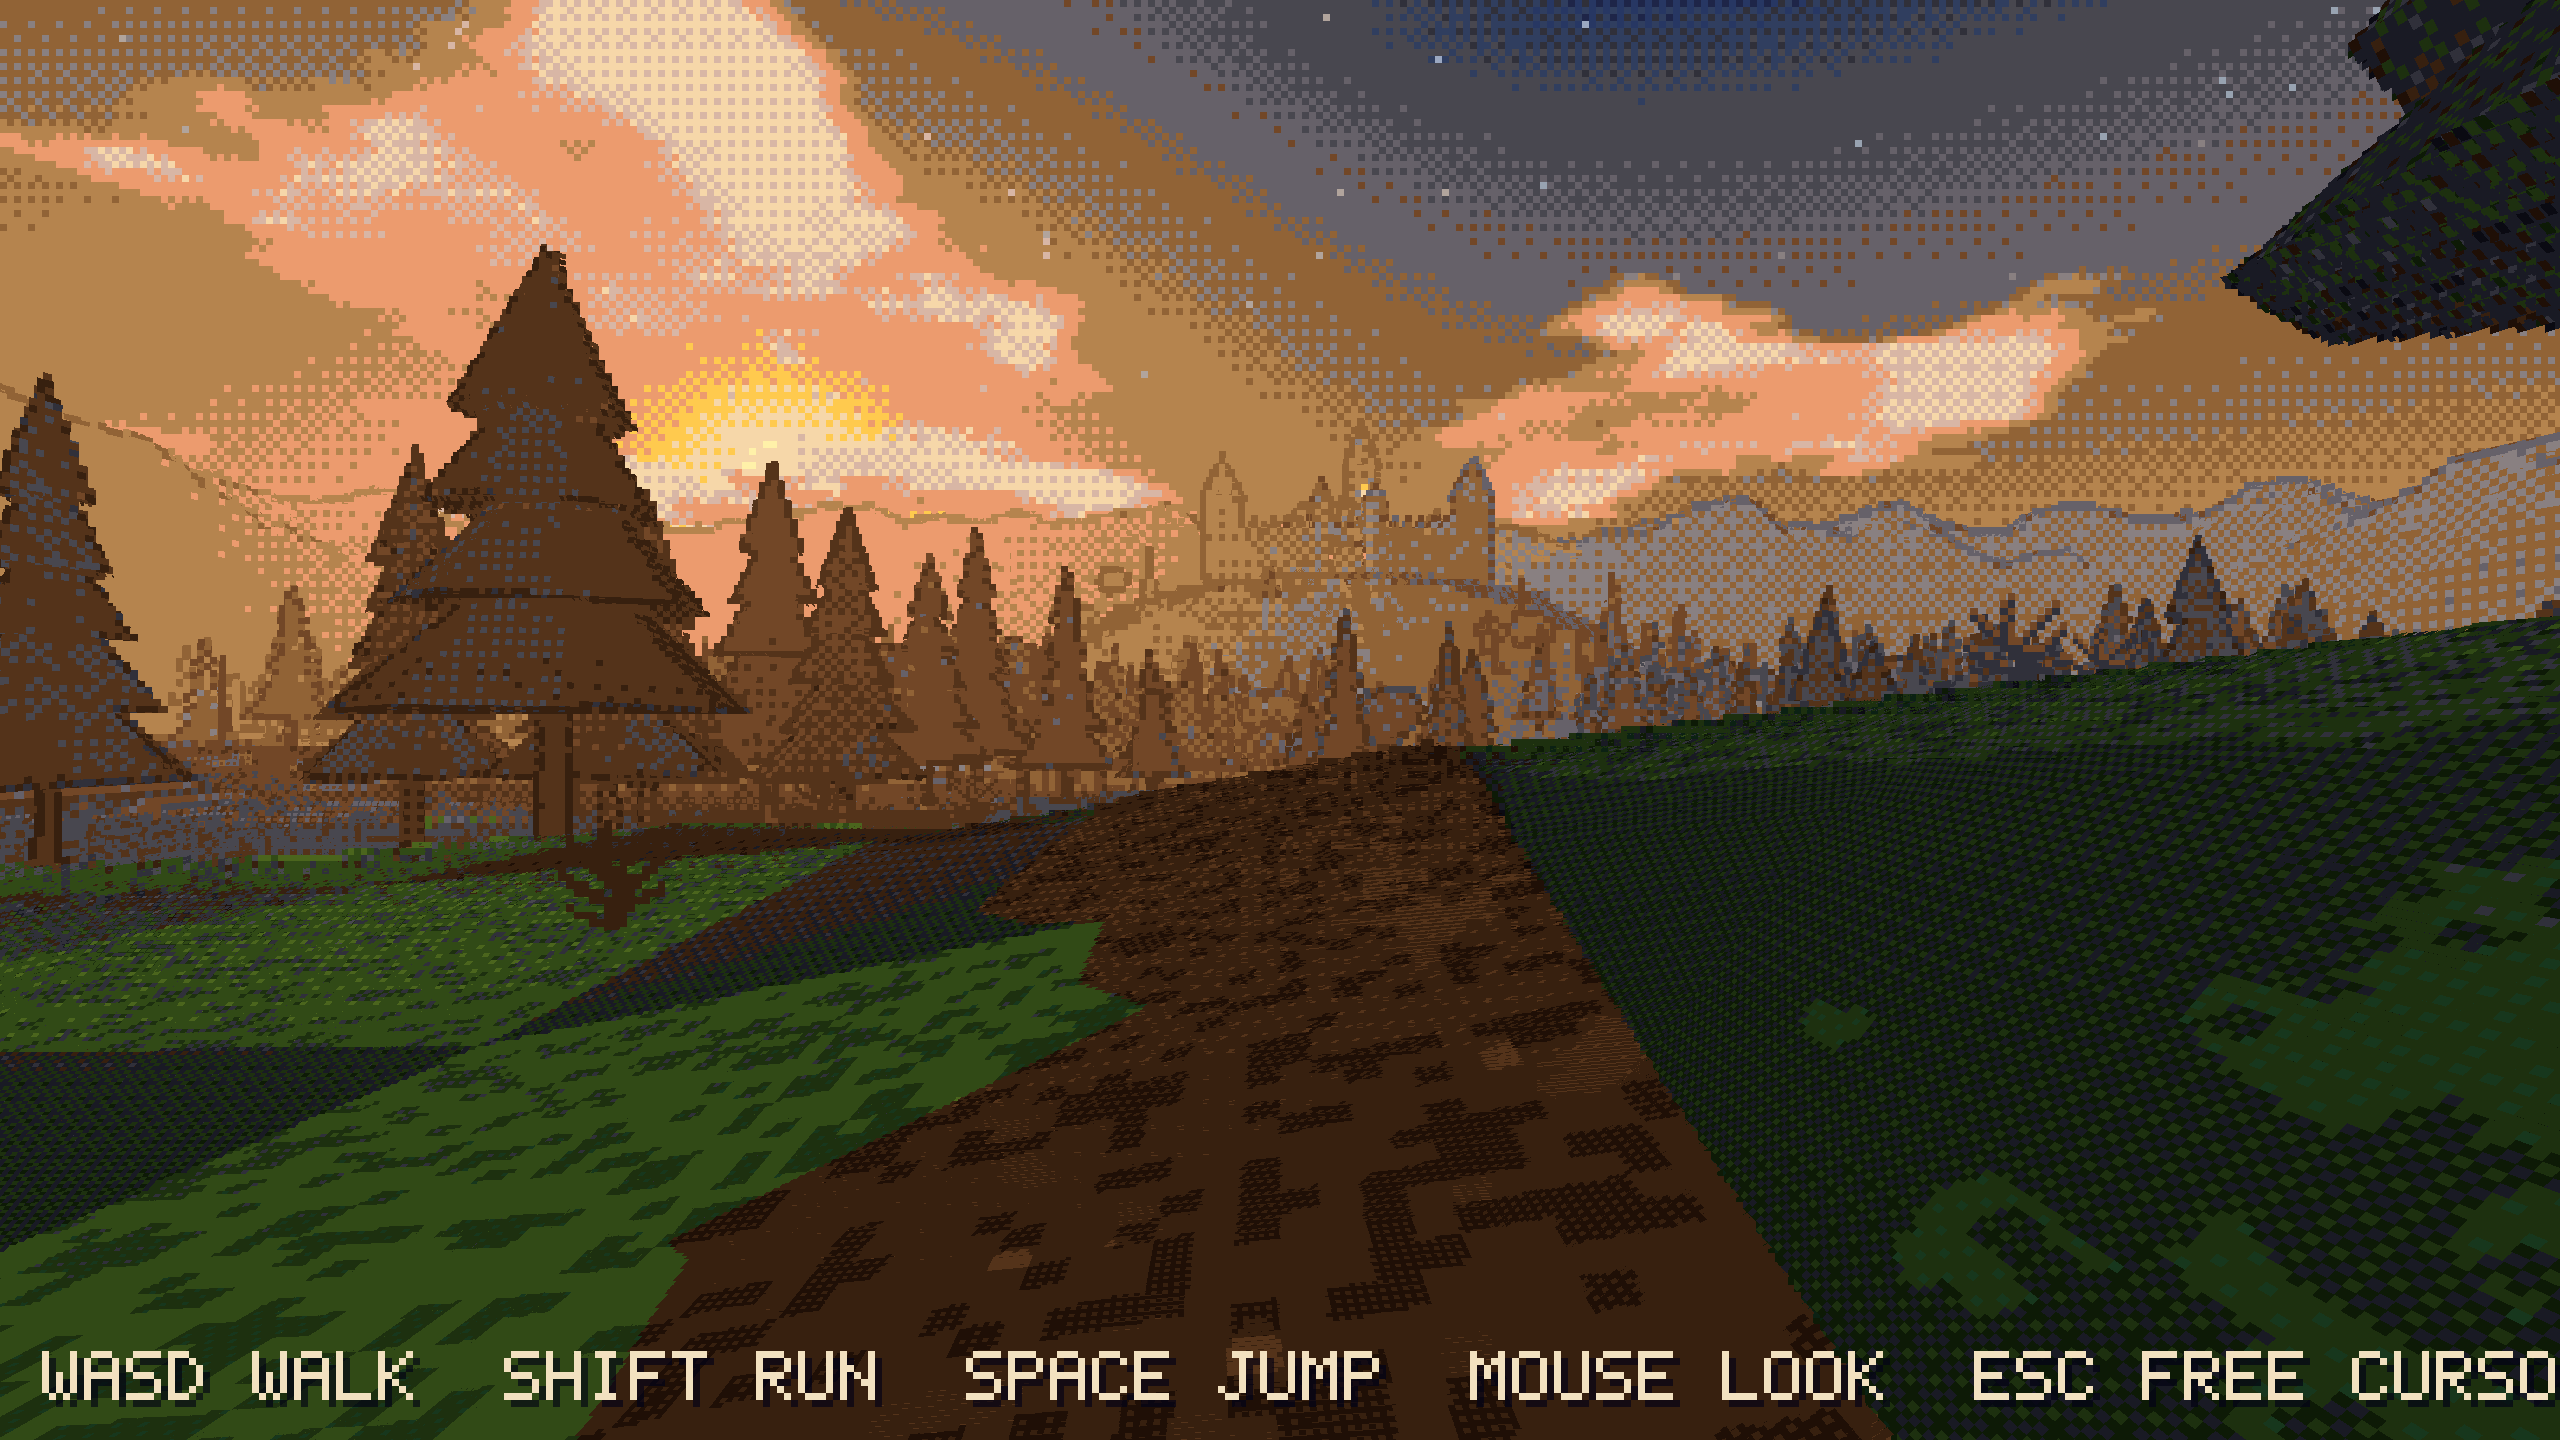
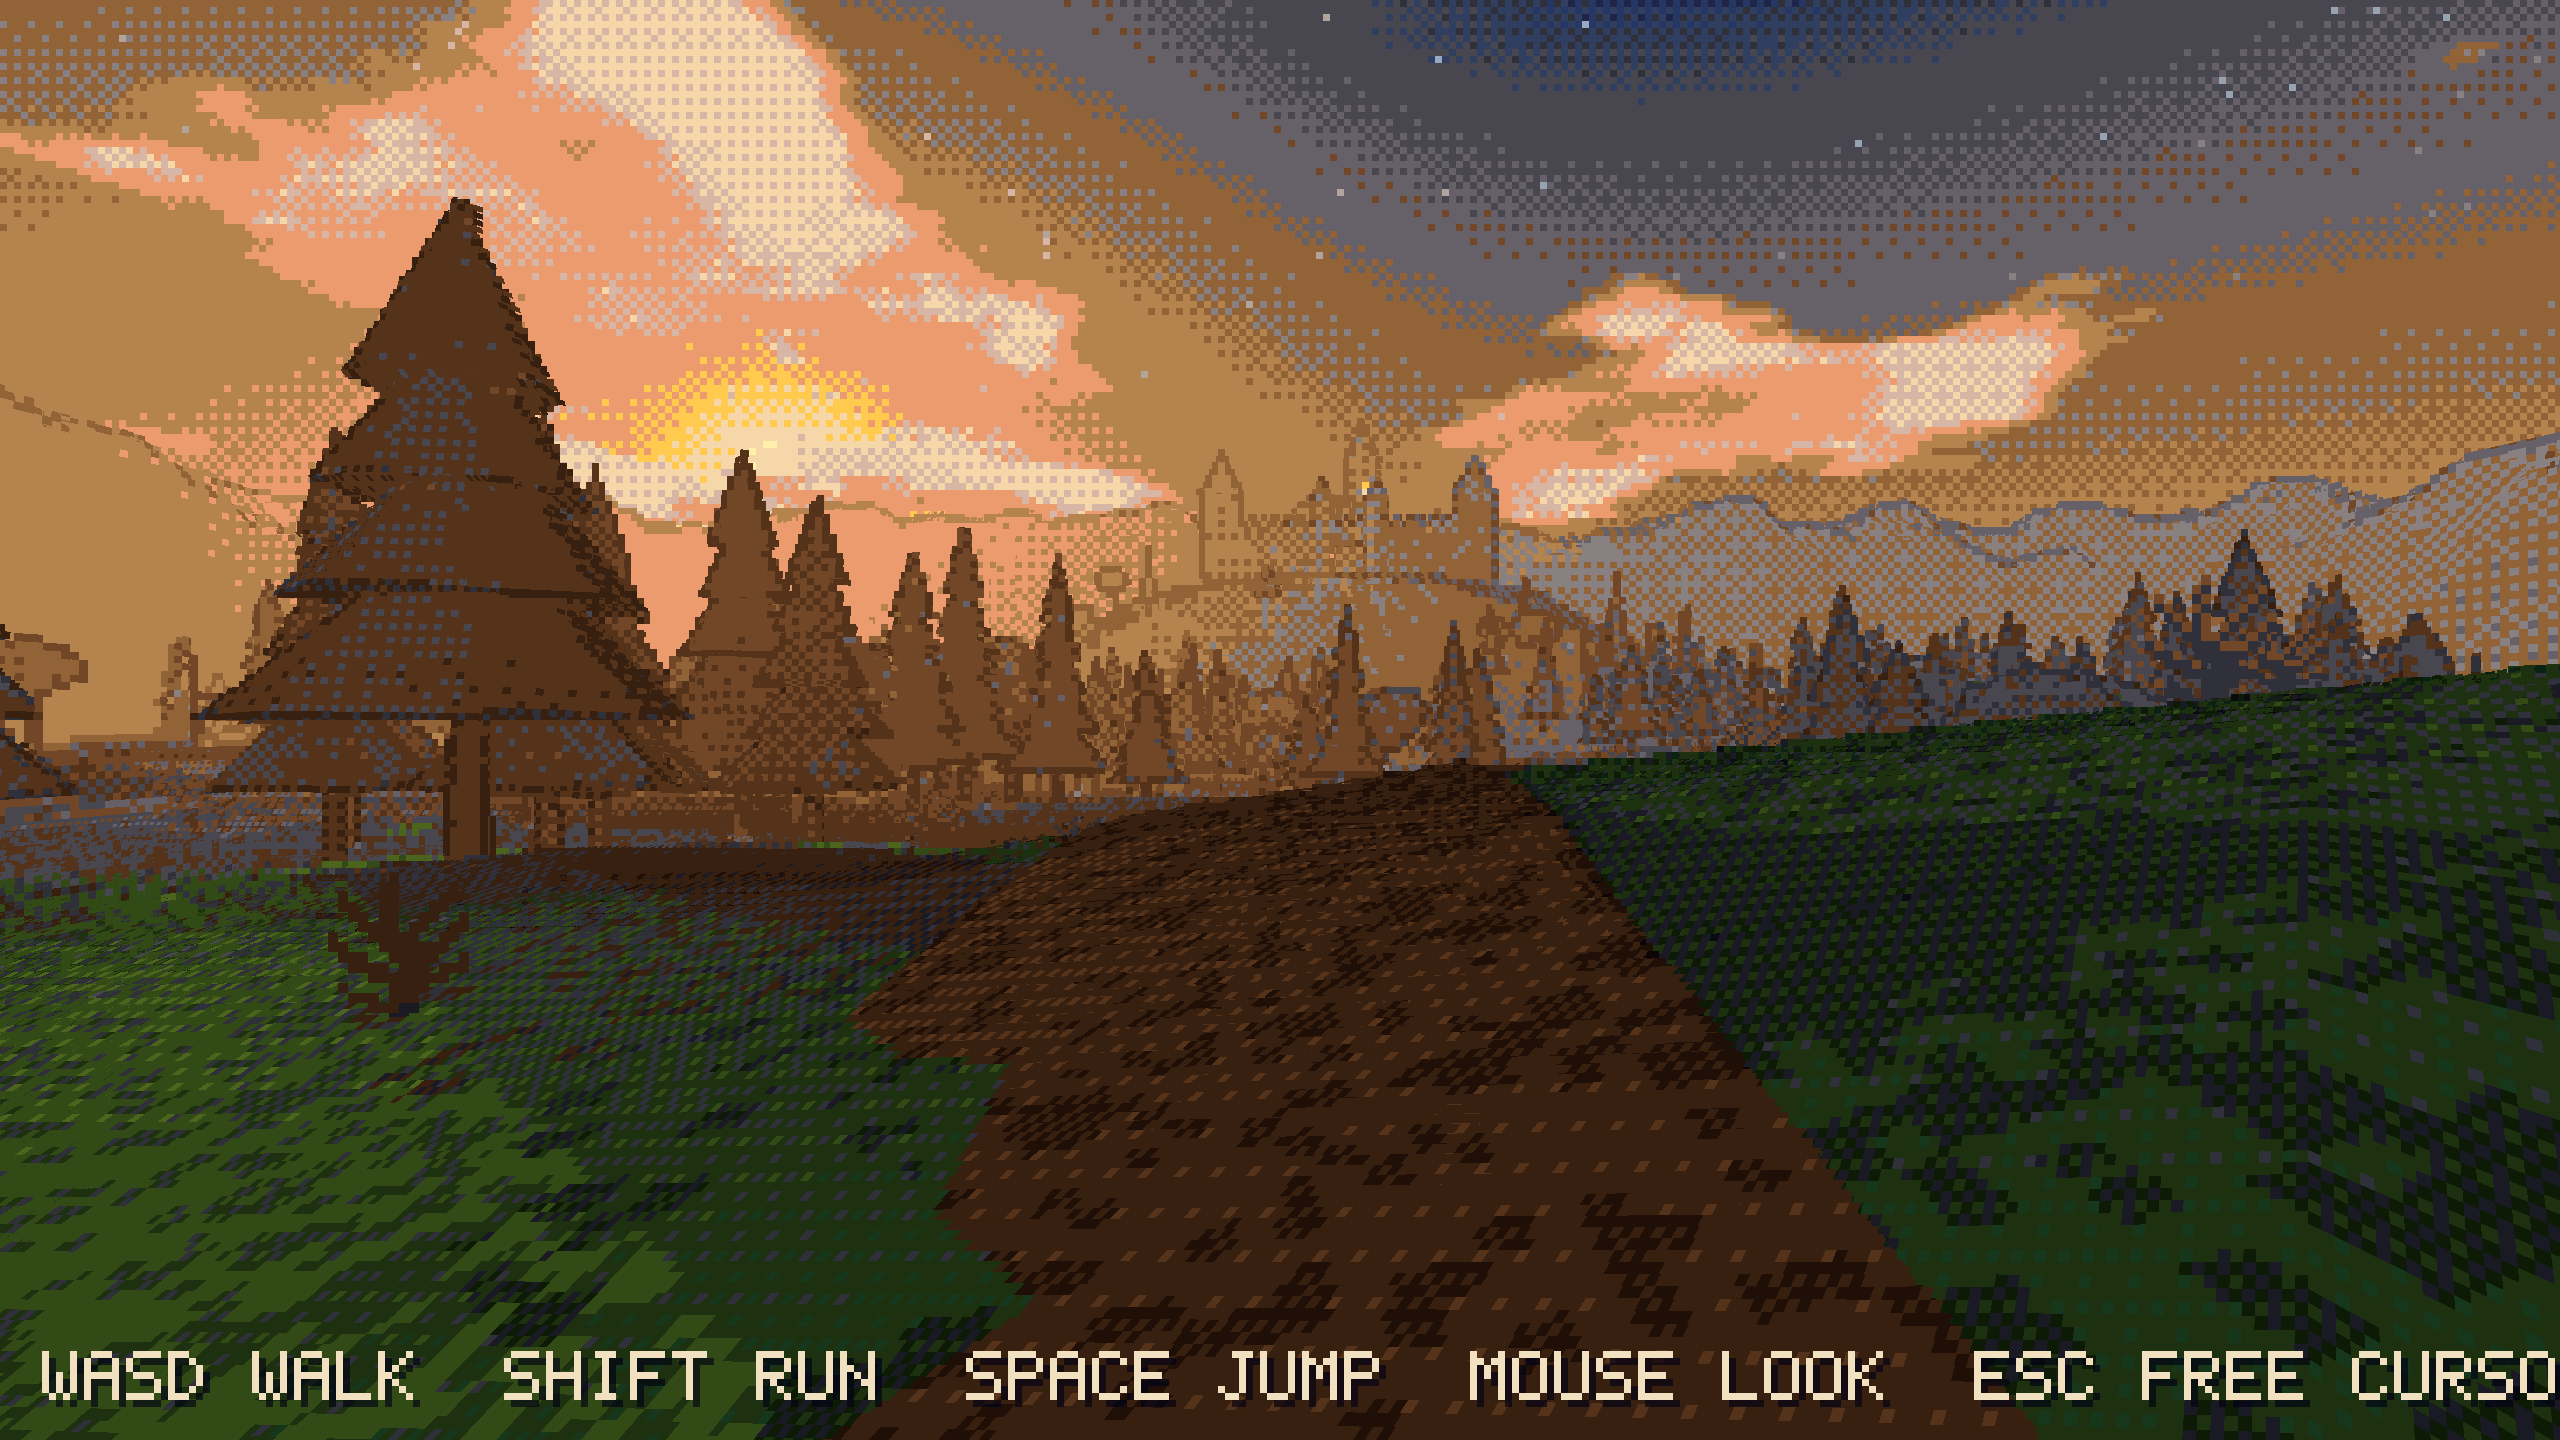
Path tracer: interpolate vertex colors instead of one per triangle
Symptom: path-traced ground in the forest showed hard-edged flat patches
("squares") that the raster image did not have.

Cause: PathTracer::rebuild stored one color per triangle, the first
vertex's (a documented shortcut). The forest terrain is 6.4-unit triangles
whose color variation lives in vertex colors, so each triangle became one
flat shade. Raster interpolates them per pixel.

Fix: each corner's sRGB vertex color goes in the unused w of v0/e1/e2 as
r + 256 g + 65536 b (exact in a float, no NaN patterns; struct size
unchanged); pathtrace.slang's surfaceColor() decodes, linearizes and
interpolates them with the hit's barycentrics, for primary and bounce hits.

Ruled out first, each by a debug render: shadow rays (removing them changed
nothing), the shadow terminator (a Hanika lift and skipping the origin
triangle changed nothing), world-pixel probe seams (screen pixels showed the
same), normals (the shading-normal view is smooth).

Evidence: terrain-only and full forest renders now match raster's smooth
color variation; Metal = Vulkan pixel-identical on forest and the village
path-traced scene; Vulkan validation clean; ace_tests and the editor
autotest pass on both. The README forest image is re-rendered. Not checked:
D3D12 (no Windows here; the shader compiles to HLSL and the D3D12 backend
compiles with MinGW).

diff --git a/engine/render/path_tracer.cpp b/engine/render/path_tracer.cpp
@@ -287,15 +287,19 @@ void PathTracer::rebuild(Scene& scene, Assets& assets, vec3 cameraRight, vec3 ca
       const Vertex& b = mesh->vertices[mesh->indices[i + 1]];
       const Vertex& c = mesh->vertices[mesh->indices[i + 2]];
       vec3 p0 = vec3(world * vec4(a.position, 1)), p1 = vec3(world * vec4(b.position, 1)), p2 = vec3(world * vec4(c.position, 1));
+      // Each corner's sRGB vertex color rides in the spare w of v0/e1/e2 as
+      // r + 256 g + 65536 b (exact in a float); the shader interpolates them
+      // like the raster path does. One color per triangle showed every terrain
+      // triangle as a flat patch ("squares") in path-traced images.
+      auto rgb = [](const Vertex& v) { return (f32)v.color[0] + 256.0f * v.color[1] + 65536.0f * v.color[2]; };
       Triangle tri;
-      tri.v0 = vec4(p0, 0);
-      tri.e1 = vec4(p1 - p0, 0);
-      tri.e2 = vec4(p2 - p0, 0);
+      tri.v0 = vec4(p0, rgb(a));
+      tri.e1 = vec4(p1 - p0, rgb(b));
+      tri.e2 = vec4(p2 - p0, rgb(c));
       tri.n0 = vec4(glm::normalize(nm * a.normal), 0);
       tri.n1 = vec4(glm::normalize(nm * b.normal), 0);
       tri.n2 = vec4(glm::normalize(nm * c.normal), 0);
-      // shortcut: one vertex color per triangle (the first vertex's).
-      tri.color = toLinear(color * vec4(a.color[0], a.color[1], a.color[2], a.color[3]) / 255.0f);
+      tri.color = toLinear(color); // the material color; vertex alpha is unused here (cutouts come from textures)
       tri.emissive = vec4(toLinear(emissive), 0);
       auto uv = [&](const Vertex& v) { return v.uv * vec2(uvRect.z, uvRect.w) + vec2(uvRect.x, uvRect.y); };
       tri.uv01 = vec4(uv(a), uv(b));

diff --git a/engine/render/path_tracer.h b/engine/render/path_tracer.h
@@ -32,7 +32,7 @@ public:
     u32 count;
   };
   struct Triangle {
-    vec4 v0, e1, e2, n0, n1, n2, color, emissive;
+    vec4 v0, e1, e2, n0, n1, n2, color, emissive; // w of v0/e1/e2: packed vertex colors
     vec4 uv01, uv2Flags, atlas; // see pathtrace.slang
   };
   // Builds a BVH in place (reorders `tris`). Exposed for tests.

diff --git a/docs/RENDERING.md b/docs/RENDERING.md
@@ -267,6 +267,17 @@ change keeps 6 frames of history (less noise, slight ghosting); a slot that
 was not traced in the previous frame restarts, because other modes draw into
 the same targets.
 
+**Surface color** is the material color times the vertex colors, interpolated
+at the hit like the raster path. Each corner's sRGB vertex color is stored in
+the otherwise unused `w` of `v0`/`e1`/`e2` as `r + 256 g + 65536 b` (exact in a
+float, never a NaN pattern). Fixed 2026-11-24: the tracer used only the first
+vertex's color, so on the forest terrain (6.4-unit triangles whose variation
+is in vertex colors) every triangle became one flat patch: hard-edged
+"squares" that raster did not show. Ruled out on the way, each by a debug
+render: shadow rays (removing them changed nothing), the shadow terminator,
+world-pixel probe seams (screen pixels showed the same) and the normals
+(the shading normal is smooth).
+
 **Denoiser.** The tracer writes light, surface color and emission to separate
 targets (demodulation). Three à-trous passes (`pt_denoise.slang`, tap
 spacing 1, 2, 4) smooth only the light, with edge-stopping on normal, depth
